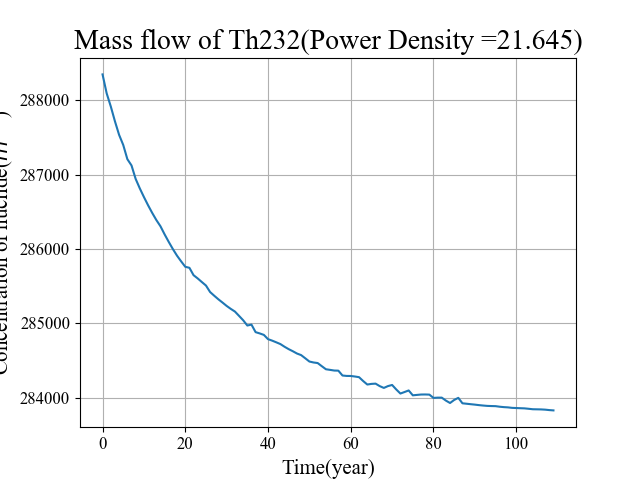
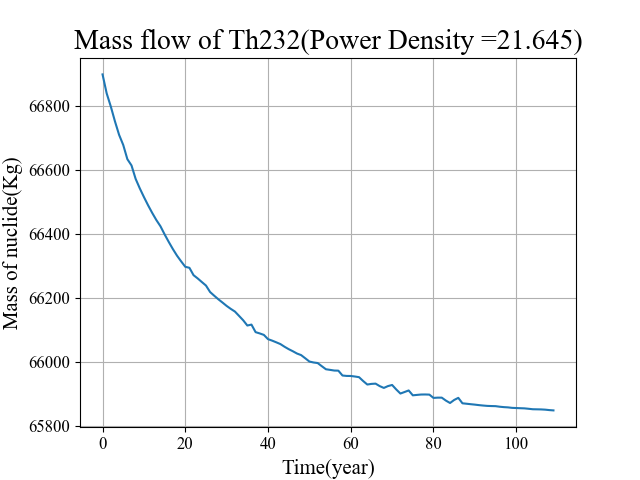
added the function of calculating the toxcities of each nuclide and all the nuclides after the reactor is shut down.

diff --git a/func.py b/func.py
@@ -243,16 +243,16 @@ def decay_cal(t, mass_off):
     return y, y_act, y_q, y_toxi
 
 
-# 反应堆运行阶段核素浓度演化绘图
+# 反应堆运行阶段核素质量演化绘图
 def paint_core(time, Alias, power, massflow):
     matplotlib.rcParams['font.family'] = 'sans-serif'  # 绘图风格
     matplotlib.rcParams['font.sans-serif'] = 'Times New Roman'  # 字体设置Times New Roman
 
     t = np.arange(0, time + 1)
-    plt.title('Mass flow of ' + Alias + "(Power Density =" + str(power) + ")", \
+    plt.title('Mass flow of ' + Alias + "(Power Density =" + str(power) + ")",
               fontsize=20)
     plt.xlabel('Time(year)', fontsize=15)
-    plt.ylabel('Concentration of nuclide($m^{-3}$)', fontsize=15)
+    plt.ylabel('Mass of nuclide(Kg)', fontsize=15)
     plt.grid(True)
     plt.xticks(fontsize=12)
     plt.yticks(fontsize=12)
@@ -343,13 +343,71 @@ def required_nuclides(mass_off):
     file = open(sys.path[0] + "/nuclide.txt", "w")
     nuclides = [1598, 1612, 1613, 1614, 1615, 1616, 1617, 1618, 1619, 1627, 1636, 1637, 1638, 1639,
                 1640, 1648, 1650, 1651, 1660, 1661, 1662, 1663, 1664]
+
+    tem1, tem2, tem3, tem4 = CRAM48(mass_off, 0)
     for i in nuclides:
         if i == 1615:
             file.write(namedset[i].decode('utf-8') + " " + str((mole2kg(mass_off[i], i)
-                                                                + mole2kg(mass_off[i + 1], i + 1)) * 1000) + "\n")
+                                                                + mole2kg(mass_off[i + 1], i + 1)) * 1000)
+                       + " " + str(tem3[i] + tem3[i + 1]) + "\n")
         elif i == 1616:
             continue
         else:
-            file.write(namedset[i].decode('utf-8') + " " + str(mole2kg(mass_off[i], i) * 1000) + "\n")
+            file.write(namedset[i].decode('utf-8') + " " + str(mole2kg(mass_off[i], i) * 1000) + " "
+                       + str(tem3[i]) + "\n")
     file.close()
     f.close()
+
+
+def tru_toxicity(time, mass_off):
+    concentration, activity, heat, toxicity = decay_cal(time, mass_off)
+    return toxicity
+
+
+def paint_toxicity(decay_time, mass_off):
+    matplotlib.rcParams['font.family'] = 'sans-serif'  # 绘图风格
+    matplotlib.rcParams['font.sans-serif'] = 'Times New Roman'  # 字体设置Times New Roman
+    plt.title("Toxicity in " + str(decay_time) + "years", fontsize=20)
+    plt.xlabel('Time(year)', fontsize=15)
+    plt.ylabel("Toxicity of nuclides(Sv)", fontsize=15)
+    plt.grid(True)
+    plt.xticks(fontsize=12)
+    plt.yticks(fontsize=12)
+
+    if decay_time == 100:
+        time = [t for t in range(1, decay_time + 1, int(decay_time / 100))]
+    else:
+        s1 = [t for t in range(1, 1001, 5)]
+        s2 = [t for t in range(1001, decay_time + 1, int(decay_time / 5000))]
+        time = s1 + s2
+
+    tru = ["Th232", "U235", "U238", "Np237", "Pu239", "Pu241", "Am241", "Cm244", "total"]
+    tru_id = [1598, 1615, 1619, 1627, 1637, 1639, 1648, 1662]
+    result = []
+
+    for i in range(len(tru)):
+        result.append([])
+
+    for j in time:
+        toxicity = tru_toxicity(j, mass_off)
+        for i in range(len(tru) - 1):
+            if i == 1:
+                result[i].append(toxicity[tru_id[i]] + toxicity[tru_id[i] + 1])  # 考虑U235的激发态
+            else:
+                result[i].append(toxicity[tru_id[i]])
+
+        result[-1].append(sum(toxicity))
+
+    for i in range(len(tru) - 1):
+        plt.loglog(time, result[i])
+    plt.loglog(time, result[-1])
+
+    plt.legend(tru, loc=0)
+    plt.ylim(1.0e-2, 1.0e12)
+    if decay_time == 100:
+        plt.xlim(1, 1.0e2)
+    else:
+        plt.xlim(1, 1.0e6)
+
+    plt.savefig(sys.path[0] + "/figs/" + "toxicity_" + str(decay_time) + ".png")
+    plt.show()

diff --git a/main.py b/main.py
@@ -25,6 +25,7 @@ from func import paint_activity
 from func import radio_activity
 import pandas as pd
 from func import required_nuclides
+from func import paint_toxicity
 
 start = dt.datetime.now()
 df = pd.read_table('input.txt', sep='\s+')
@@ -58,7 +59,7 @@ else:
     f.write(str(Uranium_need / power_electricity) + "\n")
 
 nuclide_evol = nuclide_evolution(power_density, alias2id(Uranium_alias))
-paint_core(year, Uranium_alias, power_density, nuclide_evol)
+paint_core(year, Uranium_alias, power_density, mole2kg(nuclide_evol, alias2id(Uranium_alias)))
 
 id = alias2id("Th232")
 Thorium_mole = nuc1(power_density, id)
@@ -66,7 +67,7 @@ Thorium_need = mole2kg(Thorium_mole, id)
 f.write("thorium_need(kg/GWe):" + "\n")
 f.write(str(Thorium_need / power_electricity) + "\n")
 nuclide_evol = nuclide_evolution(power_density, alias2id("Th232"))
-paint_core(year, "Th232", power_density, nuclide_evol)
+paint_core(year, "Th232", power_density, mole2kg(nuclide_evol, alias2id("Th232")))
 
 print("Calculating the mass of Fission Products(Kg)......")
 
@@ -90,7 +91,7 @@ mass_TRU = transuranium(power_density)
 f.write("mass_TRU(kg/GWe):" + "\n")
 f.write(str(mass_TRU / power_electricity) + "\n")
 
-print("Calculating the radio activity after the reactor is shut down......")
+print("Calculating the radio activity and TRU toxicity after the reactor is shut down......")
 mass_off = [nuc2(power_density, i) for i in range(1693)]
 
 decay_time = 100
@@ -99,6 +100,7 @@ f.write("radioactive_100y_spent_fuel(Ci/GWe-yr):" + "\n")
 f.write(str(total_act / power_electricity / year) + "\n")
 
 paint_activity(decay_time, mass_off)
+paint_toxicity(decay_time, mass_off)
 
 decay_time = 1000000
 total_act = radio_activity(decay_time, mass_off)
@@ -106,10 +108,11 @@ f.write("radioactive_10000thy_spent_fuel(Ci/GWe-yr):" + "\n")
 f.write(str(total_act / power_electricity / year) + "\n")
 
 paint_activity(decay_time, mass_off)
+paint_toxicity(decay_time, mass_off)
 
 f.close()
 
-print("Calculating the mass of required nuclides......")
+print("Calculating the mass(kg) and decay heat(W) of required nuclides......")
 
 required_nuclides(mass_off)
 
